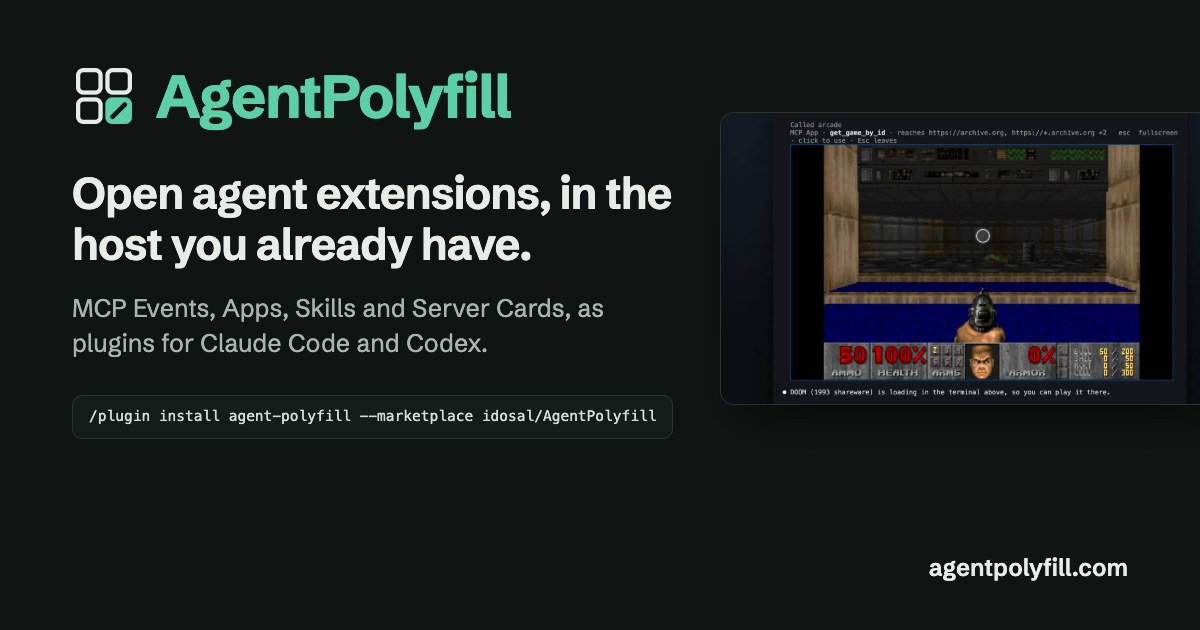
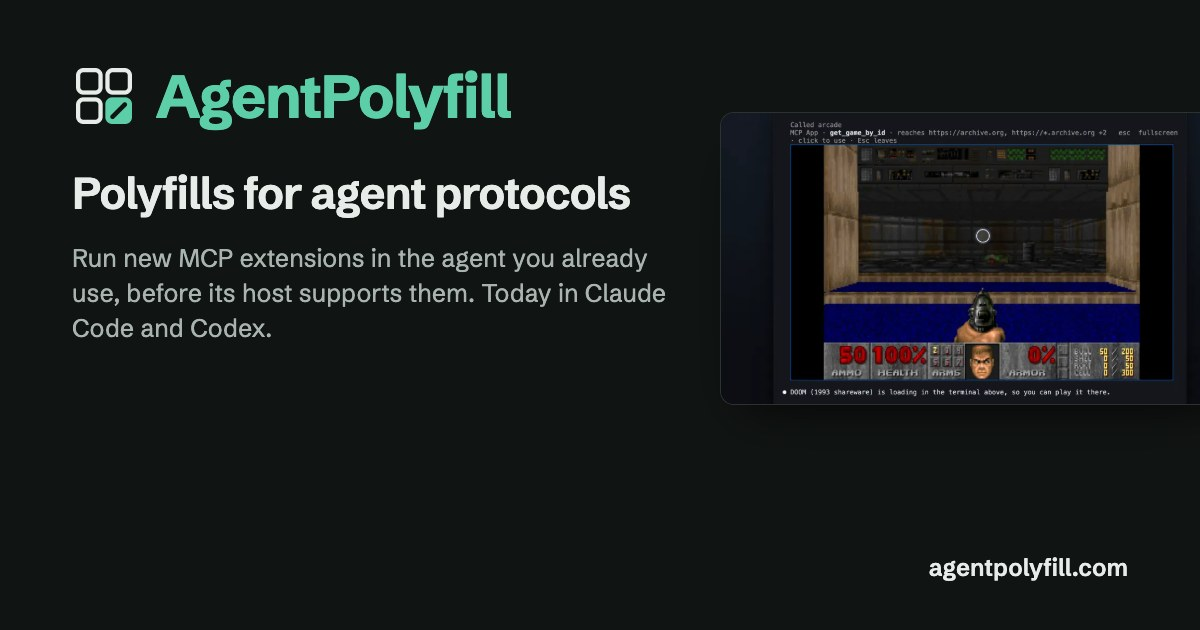
Positioning: polyfills for agent protocols, across hosts
Ido: "Open agent extensions, in the host you already have" and "MCP
extensions as plugins for Claude Code and Codex" miss the point: this
polyfills protocol support across hosts, not only those two.
- Site hero: "Polyfills for agent protocols" / "Run new MCP extensions
  in the agent you already use, before its host supports them. No
  server changes. Today in Claude Code and Codex." The home lede ends
  "until the host ships its own" (not Claude Code alone).
- README's first line, About, the meta and link-preview descriptions,
  and llms.txt say the same.
- The link-preview card (og/og.html, public/og.jpg) leads with it, and
  drops the Claude Code install line, which made it read as one host's
  plugin.

Changed region(s): [[0.0617, 0.2714, 0.5858, 0.573], [0.0925, 0.6333, 0.555, 0.6937]]

diff --git a/site/og/og.html b/site/og/og.html
@@ -1,6 +1,7 @@
 <!doctype html>
 <!--
-  The link-preview image (og:image), 1200 x 630. Render it with
+  The link-preview image (og:image), 1200 x 630. It says what AgentPolyfill
+  is, not how one host installs it. Render it with
   `node og/render.mjs`, which writes public/og.jpg. The frame on the right is a
   real one: the launch video's poster (DOOM under an MCP App tool call).
   X lays its own label over the bottom-left corner, so nothing sits there.
@@ -97,9 +98,8 @@
       </svg>
       <div class="name">AgentPolyfill</div>
     </div>
-    <h1>Open agent extensions, in the host you already have.</h1>
-    <p class="what">MCP Events, Apps, Skills and Server Cards, as plugins for Claude Code and Codex.</p>
-    <div class="install">/plugin install agent-polyfill --marketplace idosal/AgentPolyfill</div>
+    <h1>Polyfills for agent protocols</h1>
+    <p class="what">Run new MCP extensions in the agent you already use, before its host supports them. Today in Claude Code and Codex.</p>
   </div>
   <div class="shot"><img src="../public/media/p/launch-poster-960.webp" alt="" /></div>
   <div class="url">agentpolyfill.com</div>

diff --git a/site/index.md b/site/index.md
@@ -3,11 +3,11 @@ layout: home
 markdownStyles: false
 titleTemplate: false
 title: AgentPolyfill
-description: Open agent extensions, in the host you already have. Plugins for Claude Code and Codex that add MCP Events, Apps, Skills and Server Cards.
+description: "Polyfills for agent protocols: run new MCP extensions (Events, Apps, Skills, Server Cards) in the agent you already use, before its host supports them. Today in Claude Code and Codex."
 hero:
   name: AgentPolyfill
-  text: Open agent extensions, in the host you already have.
-  tagline: MCP extensions as plugins for Claude Code and Codex. No server changes.
+  text: Polyfills for agent protocols
+  tagline: Run new MCP extensions in the agent you already use, before its host supports them. No server changes. Today in Claude Code and Codex.
   image:
     light: /mark-light.svg
     dark: /mark-dark.svg
@@ -32,7 +32,7 @@ hero:
 
 <section>
   <h2>The polyfills</h2>
-  <p class="lede">Each implements one MCP extension's client side, to spec, until Claude Code ships its own.</p>
+  <p class="lede">Each implements one MCP extension's client side, to spec, until the host ships its own.</p>
   <PolyfillCards />
   <h3 class="beyond">Beyond MCP</h3>
   <PolyfillCards group="beyond" />

diff --git a/site/about.md b/site/about.md
@@ -6,9 +6,10 @@ aside: false
 # About
 
 AgentPolyfill is a community project by
-[Ido Salomon](https://github.com/idosal): plugins that add open agent
-extensions to the host you already have, starting with four MCP extensions and
-one open draft beyond MCP in Claude Code.
+[Ido Salomon](https://github.com/idosal): polyfills for agent protocols. Each
+one brings a published protocol extension to agent hosts that have not shipped
+it yet. Today that is four MCP extensions and one open draft beyond MCP, in
+Claude Code and Codex.
 
 ## Not affiliated
 

diff --git a/README.md b/README.md
@@ -1,6 +1,7 @@
 # AgentPolyfill
 
-Open agent extensions, in the host you already have. MCP first, in Claude Code and Codex.
+Polyfills for agent protocols. Run new MCP extensions in the agent you already
+use, before its host supports them. Today in Claude Code and Codex.
 
 MCP now grows through extensions: Apps, Skills, Events, Server Cards. A server can adopt one
 quickly. Each host has to build and ship each one, on its own schedule. A
